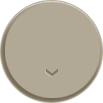
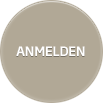
- images exchanged - css corrected

Changed region(s): [[0.0, 0.0874, 0.9903, 0.9903], [0.1456, 0.4369, 0.8447, 0.5534], [0.4369, 0.6699, 0.5825, 0.7573]]

diff --git a/all/themes/hso_theme/css/global.css b/all/themes/hso_theme/css/global.css
@@ -1878,7 +1878,7 @@ body.kvcollege_section .panel-pane.pane-course-intros .pane-title {
   border-bottom-color: #199cda;
 }
 body.kvcollege_section .panel-pane.pane-course-intros .view-course-intros .ui-tabs {
-  background: transparent url(../images/kv_bg_tabs.jpg) no-repeat 0 1px;
+  background: transparent url(../images/kv_bg_tabs.png) no-repeat 0 1px;
 }
 body.kvcollege_section .panel-pane.pane-course-intros .view-course-intros .ui-tabs .tab_scroll .ui-tabs-nav li {
   background: none #199cda;
@@ -1901,7 +1901,7 @@ body.hscollege_section .panel-pane.pane-course-intros .pane-title {
   border-bottom-color: #7db956;
 }
 body.hscollege_section .panel-pane.pane-course-intros .view-course-intros .ui-tabs {
-  background: transparent url(../images/hs_bg_tabs.jpg) no-repeat 0 1px;
+  background: transparent url(../images/hs_bg_tabs.png) no-repeat 0 1px;
 }
 body.hscollege_section .panel-pane.pane-course-intros .view-course-intros .ui-tabs .tab_scroll .ui-tabs-nav li {
   background: none #7db956;
@@ -1924,7 +1924,7 @@ body.kscollege_section .panel-pane.pane-course-intros .pane-title {
   border-bottom-color: #003b79;
 }
 body.kscollege_section .panel-pane.pane-course-intros .view-course-intros .ui-tabs {
-  background: transparent url(../images/ks_bg_tabs.jpg) no-repeat 0 1px;
+  background: transparent url(../images/ks_bg_tabs.png) no-repeat 0 1px;
 }
 body.kscollege_section .panel-pane.pane-course-intros .view-course-intros .ui-tabs .tab_scroll .ui-tabs-nav li {
   background: none #003b79;
@@ -1947,7 +1947,7 @@ body.excollege_section .panel-pane.pane-course-intros .pane-title {
   border-bottom-color: #b1a896;
 }
 body.excollege_section .panel-pane.pane-course-intros .view-course-intros .ui-tabs {
-  background: transparent url(../images/ex_bg_tabs.jpg) no-repeat 0 1px;
+  background: transparent url(../images/ex_bg_tabs.png) no-repeat 0 1px;
 }
 body.excollege_section .panel-pane.pane-course-intros .view-course-intros .ui-tabs .tab_scroll .ui-tabs-nav li {
   background: none #b1a896;
@@ -2100,6 +2100,7 @@ body.langcollege_section .pane-team-panel-pane-1 .pane-content a.browse {
   color: #fff;
   height: 30px;
   min-width: 210px;
+  max-width: 500px;
   z-index: 4;
 }
 #block-views-courses-block .view-content ul:hover {
@@ -2183,7 +2184,7 @@ body.langcollege_section #block-views-courses-block .view-content ul li.views-ro
   height: 63px;
   font-family: 'Soho Gothic W01 Medium', sans-serif;
   font-size: 12px;
-  color: #fff;
+  color: transparent;
   text-align: center;
   text-decoration: none;
   text-transform: uppercase;
@@ -2200,9 +2201,6 @@ body.kscollege_section #block-block-3 a.anmelden_button {
 }
 body.excollege_section #block-block-3 a.anmelden_button {
   background-image: url(../images/ex_anmelden.png);
-}
-body.infcollege_section #block-block-3 a.anmelden_button {
-  background-image: url(../images/lc_anmelden.png);
 }
 body.langcollege_section #block-block-3 a.anmelden_button {
   background-image: url(../images/lang_anmelden.png);
@@ -2316,7 +2314,7 @@ body.coacollege_section #block-block-3 a.anmelden_button {
   height: 61px;
   font-family: 'Soho Gothic W01 Medium', sans-serif;
   font-size: 18px;
-  color: #fff;
+  color: transparent;
   text-align: center;
   text-decoration: none;
   text-transform: uppercase;
@@ -2375,7 +2373,7 @@ body.coacollege_section #block-block-3 a.anmelden_button {
   text-align: center;
 }
 body.kvcollege_section .view-course-tabs .ui-tabs {
-  background: transparent url(../images/kv_bg_tabs.jpg) no-repeat 0 1px;
+  background: transparent url(../images/kv_bg_tabs.png) no-repeat 0 1px;
 }
 body.kvcollege_section .view-course-tabs .ui-tabs .tab_scroll .ui-tabs-nav li {
   background: none #199cda;
@@ -2407,7 +2405,7 @@ body.kvcollege_section .view-course-tabs #startdaten .view-course-times table tb
   background: #199cda;
 }
 body.hscollege_section .view-course-tabs .ui-tabs {
-  background: transparent url(../images/hs_bg_tabs.jpg) no-repeat 0 1px;
+  background: transparent url(../images/hs_bg_tabs.png) no-repeat 0 1px;
 }
 body.hscollege_section .view-course-tabs .ui-tabs .tab_scroll .ui-tabs-nav li {
   background: none #7db956;
@@ -2439,7 +2437,7 @@ body.hscollege_section .view-course-tabs #startdaten .view-course-times table tb
   background: #7db956;
 }
 body.kscollege_section .view-course-tabs .ui-tabs {
-  background: transparent url(../images/ks_bg_tabs.jpg) no-repeat 0 1px;
+  background: transparent url(../images/ks_bg_tabs.png) no-repeat 0 1px;
 }
 body.kscollege_section .view-course-tabs .ui-tabs .tab_scroll .ui-tabs-nav li {
   background: none #003b79;
@@ -2471,7 +2469,7 @@ body.kscollege_section .view-course-tabs #startdaten .view-course-times table tb
   background: #003b79;
 }
 body.excollege_section .view-course-tabs .ui-tabs {
-  background: transparent url(../images/ex_bg_tabs.jpg) no-repeat 0 1px;
+  background: transparent url(../images/ex_bg_tabs.png) no-repeat 0 1px;
 }
 body.excollege_section .view-course-tabs .ui-tabs .tab_scroll .ui-tabs-nav li {
   background: none #b1a896;
@@ -3185,7 +3183,10 @@ body.lccollege_section #block-system-main a.call2action {
   background-position: 0 -408px;
 }
 @media all and (min-width: 740px) and (min-device-width: 740px), (max-device-width: 800px) and (min-width: 740px) and (orientation:landscape) {
-  #block-system-main a.call2action {
+  #block-system-main p {
+    margin: 0;
+  }
+  #block-system-main p a.call2action {
     display: none;
   }
 }

diff --git a/all/themes/hso_theme/less/scrolling-course-tabs-block.less b/all/themes/hso_theme/less/scrolling-course-tabs-block.less
@@ -101,7 +101,7 @@
         height: 61px;
         font-family: @font-family-medium;
         font-size: @font-size-large;
-        color: #fff;
+        color: transparent;
         text-align: center;
         text-decoration: none;
         text-transform: uppercase;
@@ -197,16 +197,16 @@
 
   // specific intro pane settings
   body.kvcollege_section & {
-    .specific-course-tabs(@hso-kv-college; url(../images/kv_bg_tabs.jpg); url(../images/kv_anmelden_2.png); #dfeac5; #ecf2dc);
+    .specific-course-tabs(@hso-kv-college; url(../images/kv_bg_tabs.png); url(../images/kv_anmelden_2.png); #dfeac5; #ecf2dc);
   }
   body.hscollege_section & {
-    .specific-course-tabs(@hso-handelsschule; url(../images/hs_bg_tabs.jpg); url(../images/hs_anmelden_2.png); #ffdbb7; #ffe8d3);
+    .specific-course-tabs(@hso-handelsschule; url(../images/hs_bg_tabs.png); url(../images/hs_anmelden_2.png); #ffdbb7; #ffe8d3);
   }
   body.kscollege_section & {
-    .specific-course-tabs(@hso-kaderschule; url(../images/ks_bg_tabs.jpg); url(../images/ks_anmelden_2.png); #dfd4e7; #ebe4f1);
+    .specific-course-tabs(@hso-kaderschule; url(../images/ks_bg_tabs.png); url(../images/ks_anmelden_2.png); #dfd4e7; #ebe4f1);
   }
   body.excollege_section & {
-    .specific-course-tabs(@hso-executive; url(../images/ex_bg_tabs.jpg); url(../images/ex_anmelden_2.png); #dfdfdf; #efefef);
+    .specific-course-tabs(@hso-executive; url(../images/ex_bg_tabs.png); url(../images/ex_anmelden_2.png); #dfdfdf; #efefef);
   }
   body.langcollege_section & {
     .specific-course-tabs(@hso-sprachen; url(../images/lang_bg_tabs.png); url(../images/lang_anmelden_2.png); lighten(@hso-sprachen, 55%); lighten(@hso-sprachen, 65%));

diff --git a/all/themes/hso_theme/less/scrolling-course-intro-tabs.less b/all/themes/hso_theme/less/scrolling-course-intro-tabs.less
@@ -175,16 +175,16 @@
 
   // specific intro pane settings
   body.kvcollege_section & {
-    .specific-pane-course-intros(@hso-kv-college; url(../images/kv_bg_tabs.jpg); url(../images/kv_teaser_tabs_pager.png));
+    .specific-pane-course-intros(@hso-kv-college; url(../images/kv_bg_tabs.png); url(../images/kv_teaser_tabs_pager.png));
   }
   body.hscollege_section & {
-    .specific-pane-course-intros(@hso-handelsschule; url(../images/hs_bg_tabs.jpg); url(../images/hs_teaser_tabs_pager.png));
+    .specific-pane-course-intros(@hso-handelsschule; url(../images/hs_bg_tabs.png); url(../images/hs_teaser_tabs_pager.png));
   }
   body.kscollege_section & {
-    .specific-pane-course-intros(@hso-kaderschule; url(../images/ks_bg_tabs.jpg); url(../images/ks_teaser_tabs_pager.png));
+    .specific-pane-course-intros(@hso-kaderschule; url(../images/ks_bg_tabs.png); url(../images/ks_teaser_tabs_pager.png));
   }
   body.excollege_section & {
-    .specific-pane-course-intros(@hso-executive; url(../images/ex_bg_tabs.jpg); url(../images/ex_teaser_tabs_pager.png));
+    .specific-pane-course-intros(@hso-executive; url(../images/ex_bg_tabs.png); url(../images/ex_teaser_tabs_pager.png));
   }
   body.langcollege_section & {
     .specific-pane-course-intros(@hso-sprachen; url(../images/lang_bg_tabs.png); url(../images/ex_teaser_tabs_pager.png));

diff --git a/all/themes/hso_theme/less/courses-dropdown-block.less b/all/themes/hso_theme/less/courses-dropdown-block.less
@@ -48,6 +48,7 @@
       color: #fff;
       height: 30px;
       min-width: 210px;
+      max-width: 500px;
       z-index: 4;
 
       &:hover {
@@ -128,7 +129,7 @@
     height: 63px;
     font-family: @font-family-medium;
     font-size: @font-size-small;
-    color: #fff;
+    color: transparent;
     text-align: center;
     text-decoration: none;
     text-transform: uppercase;
@@ -147,9 +148,6 @@
   }
   body.excollege_section & {
     .specific-anmelde-button(url(../images/ex_anmelden.png));
-  }
-  body.infcollege_section & {
-    .specific-anmelde-button(url(../images/lc_anmelden.png));
   }
   body.langcollege_section & {
     .specific-anmelde-button(url(../images/lang_anmelden.png));

diff --git a/all/themes/hso_theme/less/block-call2action.less b/all/themes/hso_theme/less/block-call2action.less
@@ -61,8 +61,12 @@
   }
 
   @media @narrow {
-    a.call2action {
-      display: none;
+    p {
+      margin: 0;
+
+      a.call2action {
+        display: none;
+      }
     }
   }
 }
